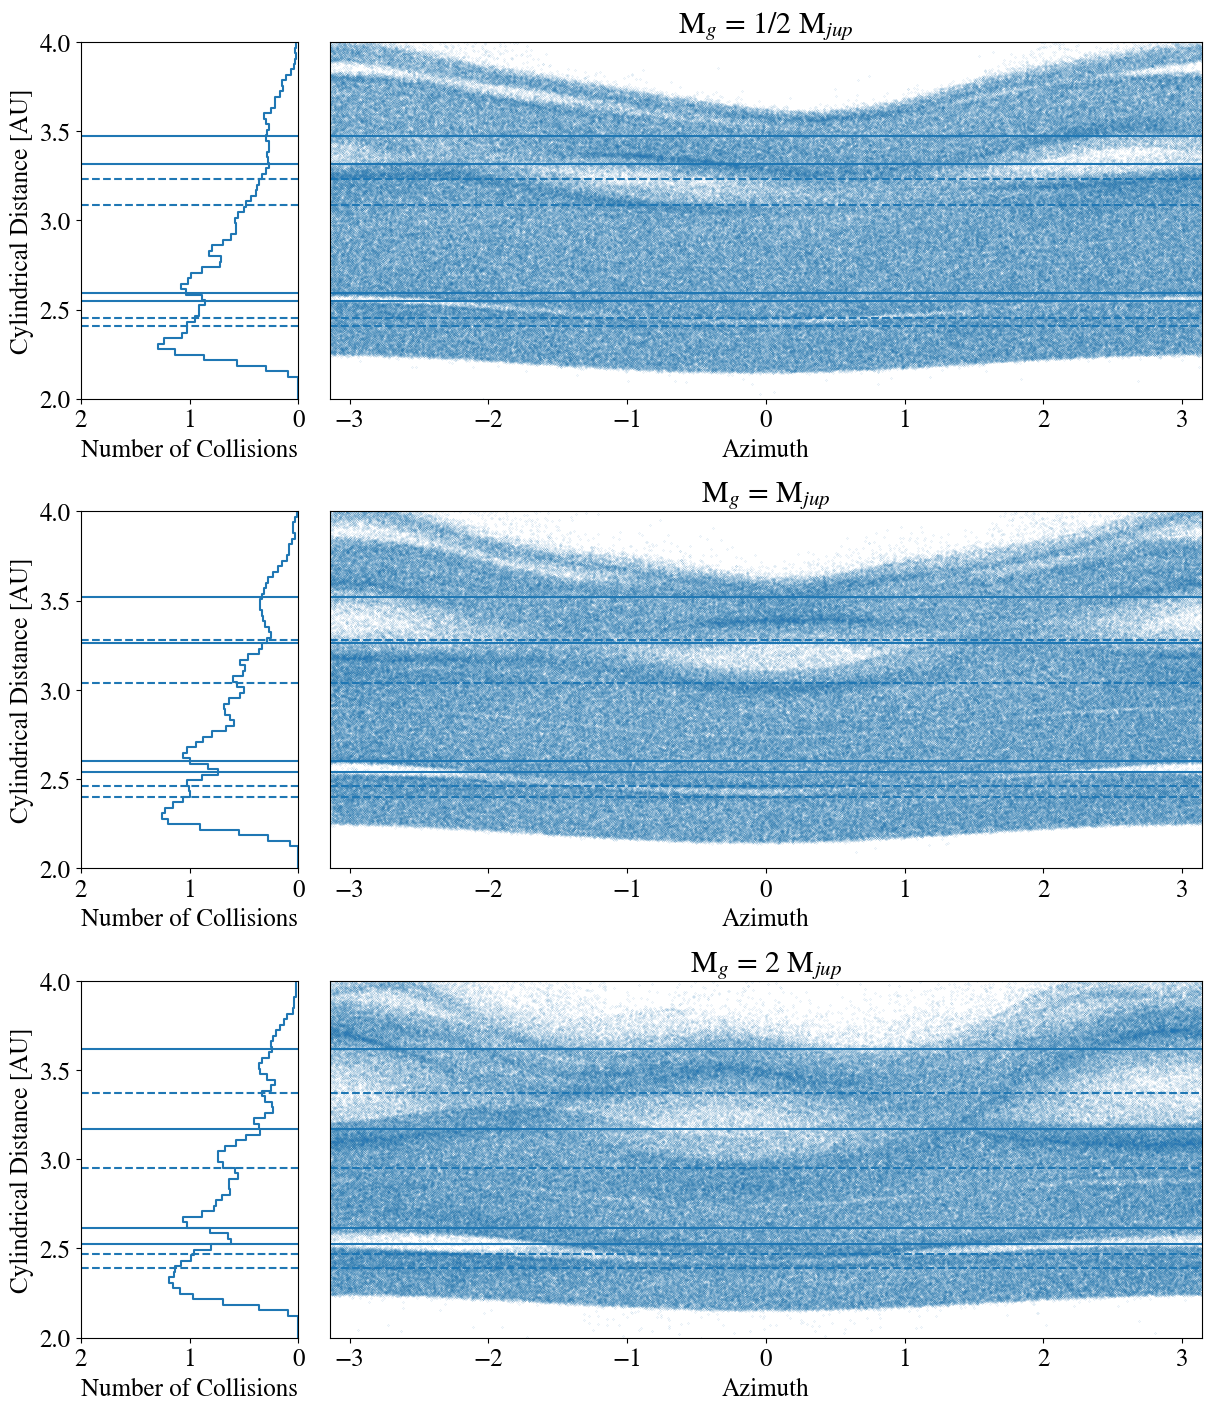
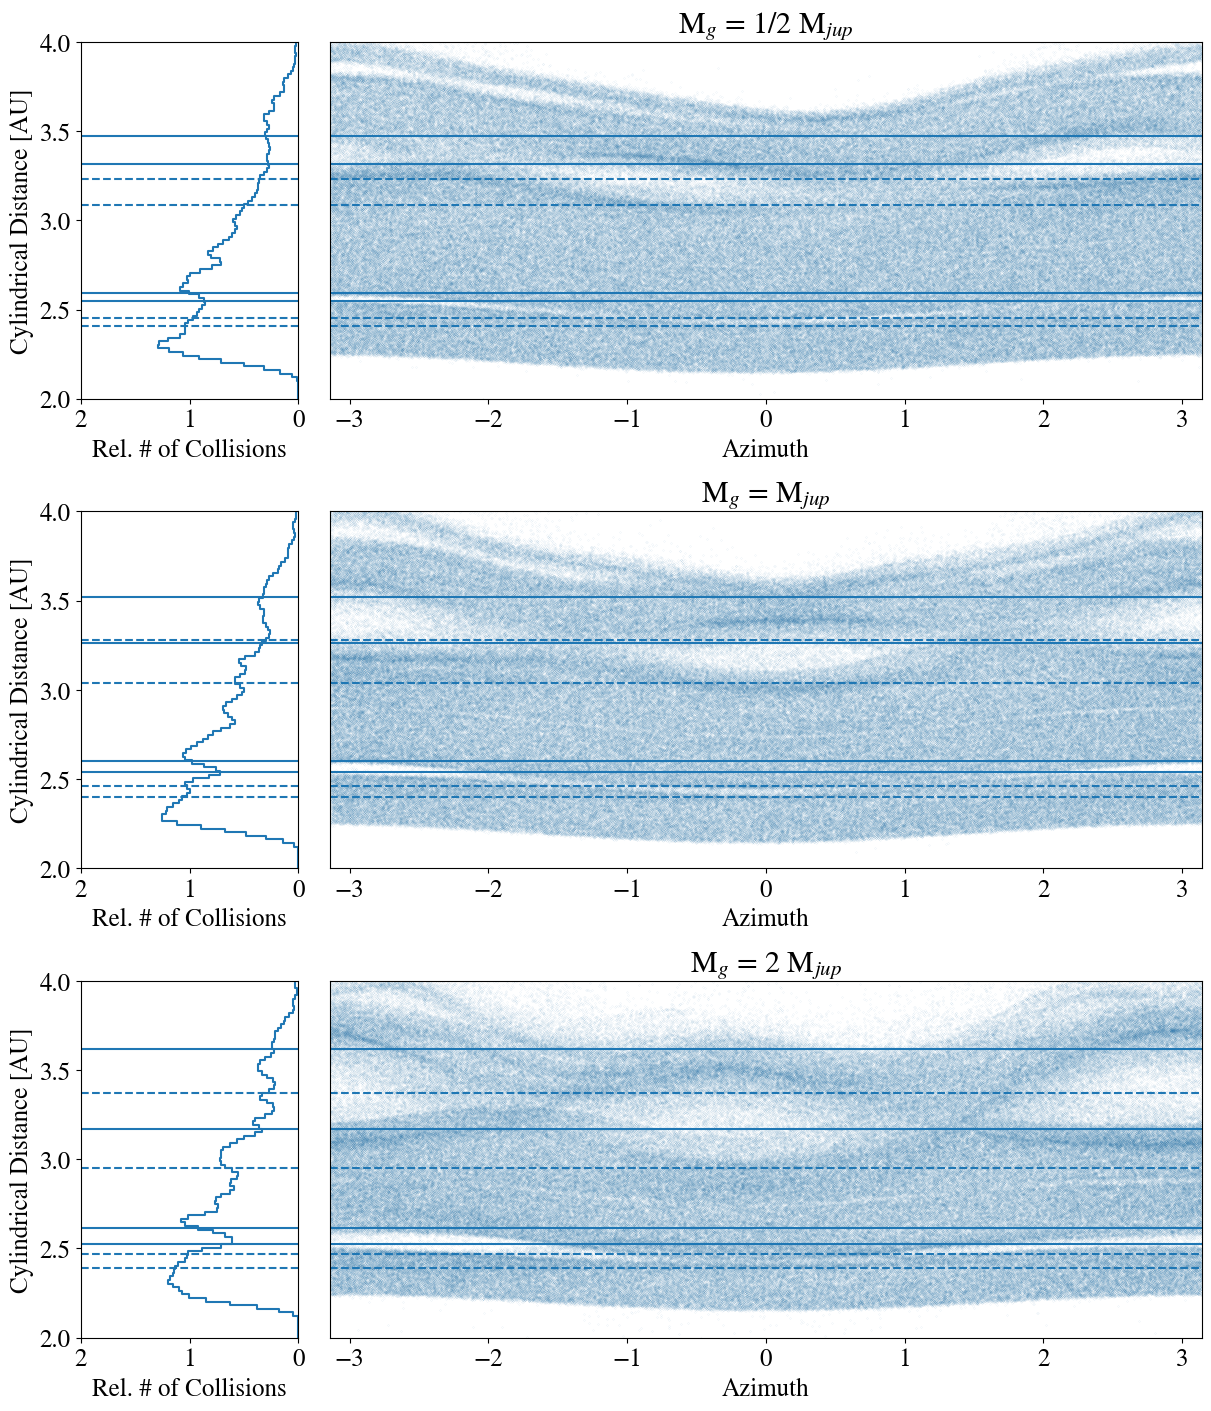
Add new bump vs dip diagnostic figure

diff --git a/makeFig.py b/makeFig.py
@@ -1,6 +1,8 @@
 #/bin/bash
 import matplotlib.pylab as plt
 import matplotlib as mpl
+from matplotlib import cm
+import matplotlib.colors as colors
 
 mpl.rcParams.update({'font.size': 18, 'font.family': 'STIXGeneral', 'mathtext.fontset': 'stix',
                             'image.cmap': 'viridis'})
@@ -45,11 +47,11 @@ for idx in range(len(res_p)):
 
 # Build a PDF from a series of data points using a KDE
 from sklearn.neighbors import KernelDensity
-def kde(qty, bw=0.03):
+def kde(qty, bw=0.02):
     bins = np.linspace(2, 4, (4-2)/bw)
     
     def kde_helper(x, x_grid, **kwargs):
-        kde_skl = KernelDensity(kernel='tophat', bandwidth=bw, **kwargs)
+        kde_skl = KernelDensity(kernel='gaussian', bandwidth=bw, **kwargs)
         kde_skl.fit(x[:, np.newaxis])
         log_pdf = kde_skl.score_samples(x_grid[:, np.newaxis])
         return np.exp(log_pdf)
@@ -239,7 +241,7 @@ def make_coll_polar_e():
 	ax00.invert_xaxis()
 
 	ax00.plot(coll_hist_e1, coll_bins_e1, linestyle='steps-mid')
-	ax01.scatter(theta_e1, r_e1, s=s)
+	ax01.scatter(theta_e1, r_e1, s=s*10)
 
 	ax00.axhline(outer_peri_31)
 	ax00.axhline(outer_apo_31, linestyle='--')
@@ -263,7 +265,7 @@ def make_coll_polar_e():
 	ax00.set_ylim(rmin, rmax)
 	ax01.set_xlim(-np.pi, np.pi)
 	ax01.set_ylim(rmin, rmax)
-	ax00.set_xlabel('Number of Collisions')
+	ax00.set_xlabel('Rel. # of Collisions')
 	ax01.set_xlabel('Azimuth')
 	ax00.set_ylabel('Cylindrical Distance [AU]')
 	ax01.set_title(r'e$_{g}$ = 1/2 e$_{jup}$')
@@ -291,7 +293,7 @@ def make_coll_polar_e():
 	ax10.invert_xaxis()
 
 	ax10.plot(coll_hist_e, coll_bins_e, linestyle='steps-mid')
-	ax11.scatter(theta_e, r_e, s=s)
+	ax11.scatter(theta_e, r_e, s=s*10)
 
 	ax10.axhline(outer_peri_31)
 	ax10.axhline(outer_apo_31, linestyle='--')
@@ -315,7 +317,7 @@ def make_coll_polar_e():
 	ax11.set_ylim(rmin, rmax)
 	ax11.set_xlim(-np.pi, np.pi)
 	ax11.set_ylim(rmin, rmax)
-	ax10.set_xlabel('Number of Collisions')
+	ax10.set_xlabel('Rel. # of Collisions')
 	ax11.set_xlabel('Azimuth')
 	ax10.set_ylabel('Cylindrical Distance [AU]')
 	ax11.set_title(r'e$_{g}$ = e$_{jup}$')
@@ -343,7 +345,7 @@ def make_coll_polar_e():
 	ax20.invert_xaxis()
 
 	ax20.plot(coll_hist_e2, coll_bins_e2, linestyle='steps-mid')
-	ax21.scatter(theta_e2, r_e2, s=s)
+	ax21.scatter(theta_e2, r_e2, s=s*10)
 
 	ax20.axhline(outer_peri_31)
 	ax20.axhline(outer_apo_31, linestyle='--')
@@ -367,7 +369,7 @@ def make_coll_polar_e():
 	ax21.set_ylim(rmin, rmax)
 	ax21.set_xlim(-np.pi, np.pi)
 	ax21.set_ylim(rmin, rmax)
-	ax20.set_xlabel('Number of Collisions')
+	ax20.set_xlabel('Rel. # of Collisions')
 	ax21.set_xlabel('Azimuth')
 	ax20.set_ylabel('Cylindrical Distance [AU]')
 	ax21.set_title(r'$e_{g}$ = 2 e$_{jup}$')
@@ -409,7 +411,7 @@ def make_coll_polar_m():
 	ax00.invert_xaxis()
 
 	ax00.plot(coll_hist_m1, coll_bins_m1, linestyle='steps-mid')
-	ax01.scatter(theta_m1, r_m1, s=s)
+	ax01.scatter(theta_m1, r_m1, s=s*10)
 
 	ax00.axhline(outer_peri_31)
 	ax00.axhline(outer_apo_31, linestyle='--')
@@ -433,7 +435,7 @@ def make_coll_polar_m():
 	ax00.set_ylim(rmin, rmax)
 	ax01.set_xlim(-np.pi, np.pi)
 	ax01.set_ylim(rmin, rmax)
-	ax00.set_xlabel('Number of Collisions')
+	ax00.set_xlabel('Rel. # of Collisions')
 	ax01.set_xlabel('Azimuth')
 	ax00.set_ylabel('Cylindrical Distance [AU]')
 	ax01.set_title(r'M$_{g}$ = 1/2 M$_{jup}$')
@@ -461,7 +463,7 @@ def make_coll_polar_m():
 	ax10.invert_xaxis()
 
 	ax10.plot(coll_hist_e, coll_bins_e, linestyle='steps-mid')
-	ax11.scatter(theta_e, r_e, s=s)
+	ax11.scatter(theta_e, r_e, s=s*10)
 
 	ax10.axhline(outer_peri_31)
 	ax10.axhline(outer_apo_31, linestyle='--')
@@ -485,7 +487,7 @@ def make_coll_polar_m():
 	ax11.set_ylim(rmin, rmax)
 	ax11.set_xlim(-np.pi, np.pi)
 	ax11.set_ylim(rmin, rmax)
-	ax10.set_xlabel('Number of Collisions')
+	ax10.set_xlabel('Rel. # of Collisions')
 	ax11.set_xlabel('Azimuth')
 	ax10.set_ylabel('Cylindrical Distance [AU]')
 	ax11.set_title(r'M$_{g}$ = M$_{jup}$')
@@ -513,7 +515,7 @@ def make_coll_polar_m():
 	ax20.invert_xaxis()
 
 	ax20.plot(coll_hist_m2, coll_bins_m2, linestyle='steps-mid')
-	ax21.scatter(theta_m2, r_m2, s=s)
+	ax21.scatter(theta_m2, r_m2, s=s*10)
 
 	ax20.axhline(outer_peri_31)
 	ax20.axhline(outer_apo_31, linestyle='--')
@@ -537,7 +539,7 @@ def make_coll_polar_m():
 	ax21.set_ylim(rmin, rmax)
 	ax21.set_xlim(-np.pi, np.pi)
 	ax21.set_ylim(rmin, rmax)
-	ax20.set_xlabel('Number of Collisions')
+	ax20.set_xlabel('Rel. # of Collisions')
 	ax21.set_xlabel('Azimuth')
 	ax20.set_ylabel('Cylindrical Distance [AU]')
 	ax21.set_title(r'M$_{g}$ = 2 M$_{jup}$')
@@ -549,7 +551,7 @@ def bump_dip_diag():
 	if not clobber and os.path.exists(file_str):
 		return
 
-	res_idx = 2
+	res_idx = 1
 	ngrid = 50
 	e_jup_vals = np.logspace(-3.5, np.log10(0.5), ngrid)
 	m_jup_vals = np.logspace(-1, 1, ngrid)
@@ -612,6 +614,93 @@ def bump_dip_diag():
 	props = dict(boxstyle='round', facecolor='white', alpha=1.0)
 	axes.text(0.75, 0.25, 'Bump at 2:1, \nBump at 3:1', transform=axes.transAxes, fontsize=14,
 	        verticalalignment='top', bbox=props)
+
+	plt.savefig(file_str, format=fmt, bbox_inches='tight')
+
+def bump_dip_diag2():
+	file_str = 'figures/bump_dip_diag.' + fmt
+	if not clobber and os.path.exists(file_str):
+		return
+
+	res_idx = 1
+	ngrid = 50
+	e_jup_vals = np.logspace(-3.5, np.log10(0.5), ngrid)
+	m_jup_vals = np.logspace(-1, 1, ngrid)
+
+	bump_21 = np.zeros((ngrid, ngrid))
+	strength_21 = np.zeros((ngrid, ngrid))
+	for idx in range(ngrid):
+	    for idx1 in range(ngrid):
+	        a_res = res_dist[res_idx]
+	        rw = res_width_jup(res_idx, ecc_jup=e_jup_vals[idx], \
+	                              m_jup=(m_jup_vals[idx1]*u.M_jup).to(u.M_sun).value)*2
+	        fecc = e_forced(a_res, e_jup_vals[idx])
+	        apo_inner = (a_res - rw)*(1 + fecc)
+	        peri_outer = (a_res + rw)*(1 - fecc)
+	        
+	        bump_21[idx][idx1] = (apo_inner - peri_outer)/(rw)
+        	strength_21[idx][idx1] = m_jup_vals[idx1]*e_jup_vals[idx]
+	            
+	res_idx = 0
+	e_jup_vals = np.logspace(-3.5, np.log10(0.5), ngrid)
+	m_jup_vals = np.logspace(-1, 1, ngrid)
+
+	bump_31 = np.zeros((ngrid, ngrid))
+	strength_31 = np.zeros((ngrid, ngrid))
+	for idx in range(ngrid):
+	    for idx1 in range(ngrid):
+	        a_res = res_dist[res_idx]
+	        rw = res_width_jup(res_idx, ecc_jup=e_jup_vals[idx], \
+	                              m_jup=(m_jup_vals[idx1]*u.M_jup).to(u.M_sun).value)*2
+	        fecc = e_forced(a_res, e_jup_vals[idx])
+	        apo_inner = (a_res - rw)*(1 + fecc)
+	        peri_outer = (a_res + rw)*(1 - fecc)
+	        
+	        bump_31[idx][idx1] = (apo_inner - peri_outer)/rw
+        	strength_31[idx][idx1] = m_jup_vals[idx1]*e_jup_vals[idx]**2
+
+	strength_21 /= strength_21[-1][-1]
+	strength_31 /= strength_31[-1][-1]
+
+	fig, axes = plt.subplots(figsize=(12,6), ncols=2)
+	cmap = cm.get_cmap('viridis', 8)
+	axes[0].contour(e_jup_vals, m_jup_vals, np.transpose(bump_21), levels=[-1, 1], colors='k', linestyles='--')
+	cax = axes[0].pcolormesh(e_jup_vals, m_jup_vals, np.flipud(np.rot90(strength_21)), \
+	                         norm=colors.LogNorm(vmin=1e-8, vmax=1), cmap=cmap)
+	axes[1].contour(e_jup_vals, m_jup_vals, np.transpose(bump_31), levels=[-1, 1], colors='k', linestyles='--')
+	cax = axes[1].pcolormesh(e_jup_vals, m_jup_vals, np.flipud(np.rot90(strength_31)), \
+	                         norm=colors.LogNorm(vmin=1e-8, vmax=1), cmap=cmap)
+	cbax,kw = mpl.colorbar.make_axes([ax for ax in axes.flat])
+	cbar = plt.colorbar(cax, cax=cbax, **kw)
+	cbar.set_label('Relative Strength of Resonance')
+	axes[0].set_xscale('log')
+	axes[0].set_yscale('log')
+	axes[0].set_xlabel('Eccentricity of Perturber')
+	axes[0].set_ylabel(r'Mass of Perturber [M$_{jup}$]')
+	axes[0].set_title('2:1 MMR')
+	axes[1].set_xscale('log')
+	axes[1].set_yscale('log')
+	axes[1].set_xlabel('Eccentricity of Perturber')
+	axes[1].set_yticks([])
+	axes[1].set_title('3:1 MMR')
+
+	props = dict(boxstyle='round', facecolor='white', alpha=1.0)
+	axes[0].text(0.1, 0.85, 'Central Dip', transform=axes[0].transAxes, fontsize=14,
+	        verticalalignment='top', bbox=props)
+	props = dict(boxstyle='round', facecolor='white', alpha=1.0)
+	axes[0].text(0.65, 0.1, 'Central Bump', transform=axes[0].transAxes, fontsize=14,
+	        verticalalignment='top', bbox=props)
+	props = dict(boxstyle='round', facecolor='white', alpha=1.0)
+	axes[1].text(0.1, 0.85, 'Central Dip', transform=axes[1].transAxes, fontsize=14,
+	        verticalalignment='top', bbox=props)
+	props = dict(boxstyle='round', facecolor='white', alpha=1.0)
+	axes[1].text(0.65, 0.1, 'Central Bump', transform=axes[1].transAxes, fontsize=14,
+	        verticalalignment='top', bbox=props)
+
+	mvals = [0.5, 1, 2, 1 , 1]
+	evals = [0.048, 0.048, 0.048, 0.024, 0.096]
+	axes[0].scatter(evals, mvals, color='k', s=100, zorder=3)
+	axes[1].scatter(evals, mvals, color='k', s=100, zorder=3)
 
 	plt.savefig(file_str, format=fmt, bbox_inches='tight')
 
@@ -1073,12 +1162,12 @@ def make_wander_res_scale():
 
 #make_coll_polar_e()
 #make_coll_polar_m()
-#bump_dip_diag()
-make_xy()
-make_ae()
-make_long_ph()
-make_coll_hist_a()
-make_coll_hist_r()
+bump_dip_diag2()
+#make_xy()
+#make_ae()
+#make_long_ph()
+#make_coll_hist_a()
+#make_coll_hist_r()
 #make_coll_hist_e_and_m()
 #make_coll_hist_hot_cold_a()
 #make_coll_gf_vary()

diff --git a/main.tex b/main.tex
@@ -152,14 +152,14 @@ the evolution of a planetesimal disk under the gravitational influence of an ext
     bodies near the edges.\label{fig:coll_polar_m}}
 \end{figure*}
 
-\begin{figure}
+\begin{figure*}
 \begin{center}
-    \includegraphics[width=0.5\textwidth]{figures/bump_dip_diag.png}
+    \includegraphics[width=\textwidth]{figures/bump_dip_diag.png}
     \caption{The presence of a dip or bump near the resonances can be used to constrain the mass and eccentricity
-    of the perturbing planet. A simultaneous dip and the 2:1 MMR, combined with a bump at the 3:1 MMR can be
-    used to place even more restrictive constraints.\label{fig:bump_dip_diag}}
+    of the perturbing planet. The color scale indicates the relative strength of the features, while the dashed lines
+    indicate boundaries in parameter space where a dip or a bump will be produced at the resonance.\label{fig:bump_dip_diag}}
 \end{center}
-\end{figure}
+\end{figure*}
 
 \subsection{Collision Rates}\label{sec:coll_rates}
 
